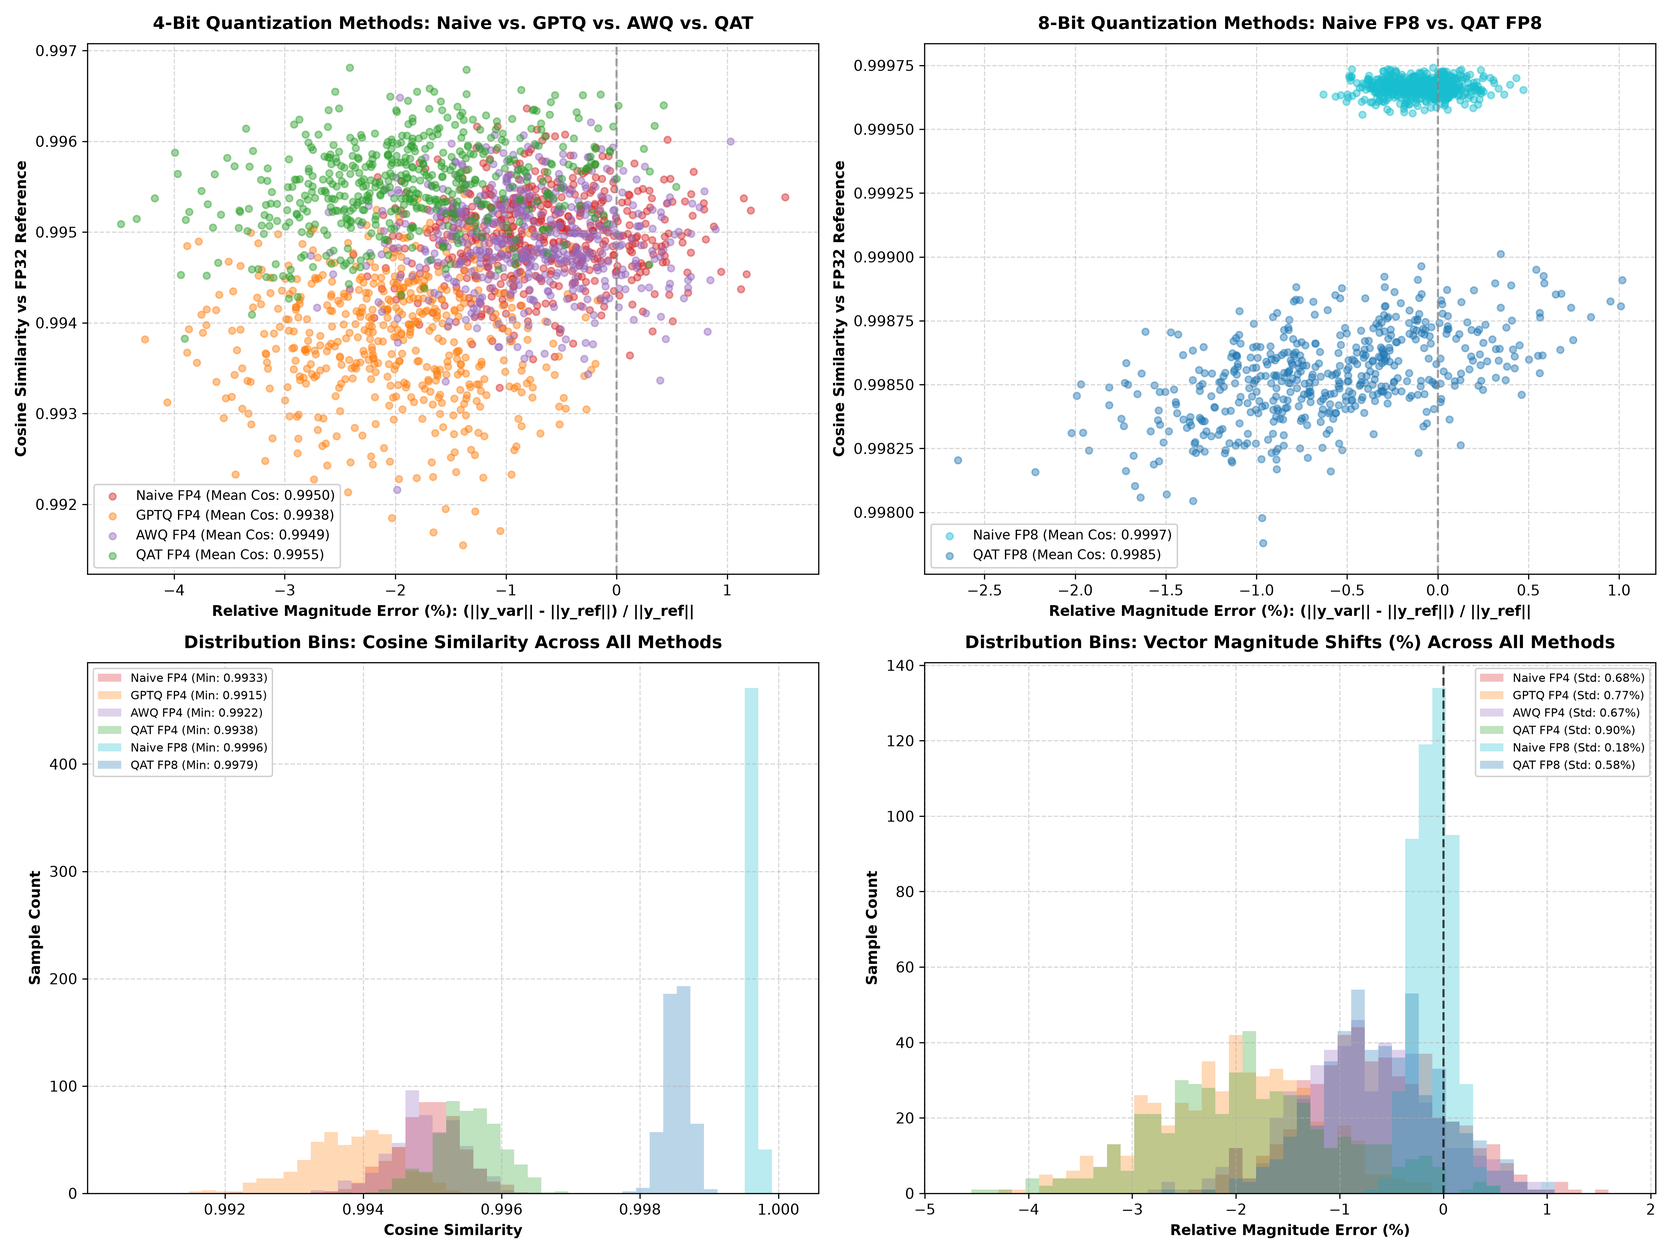
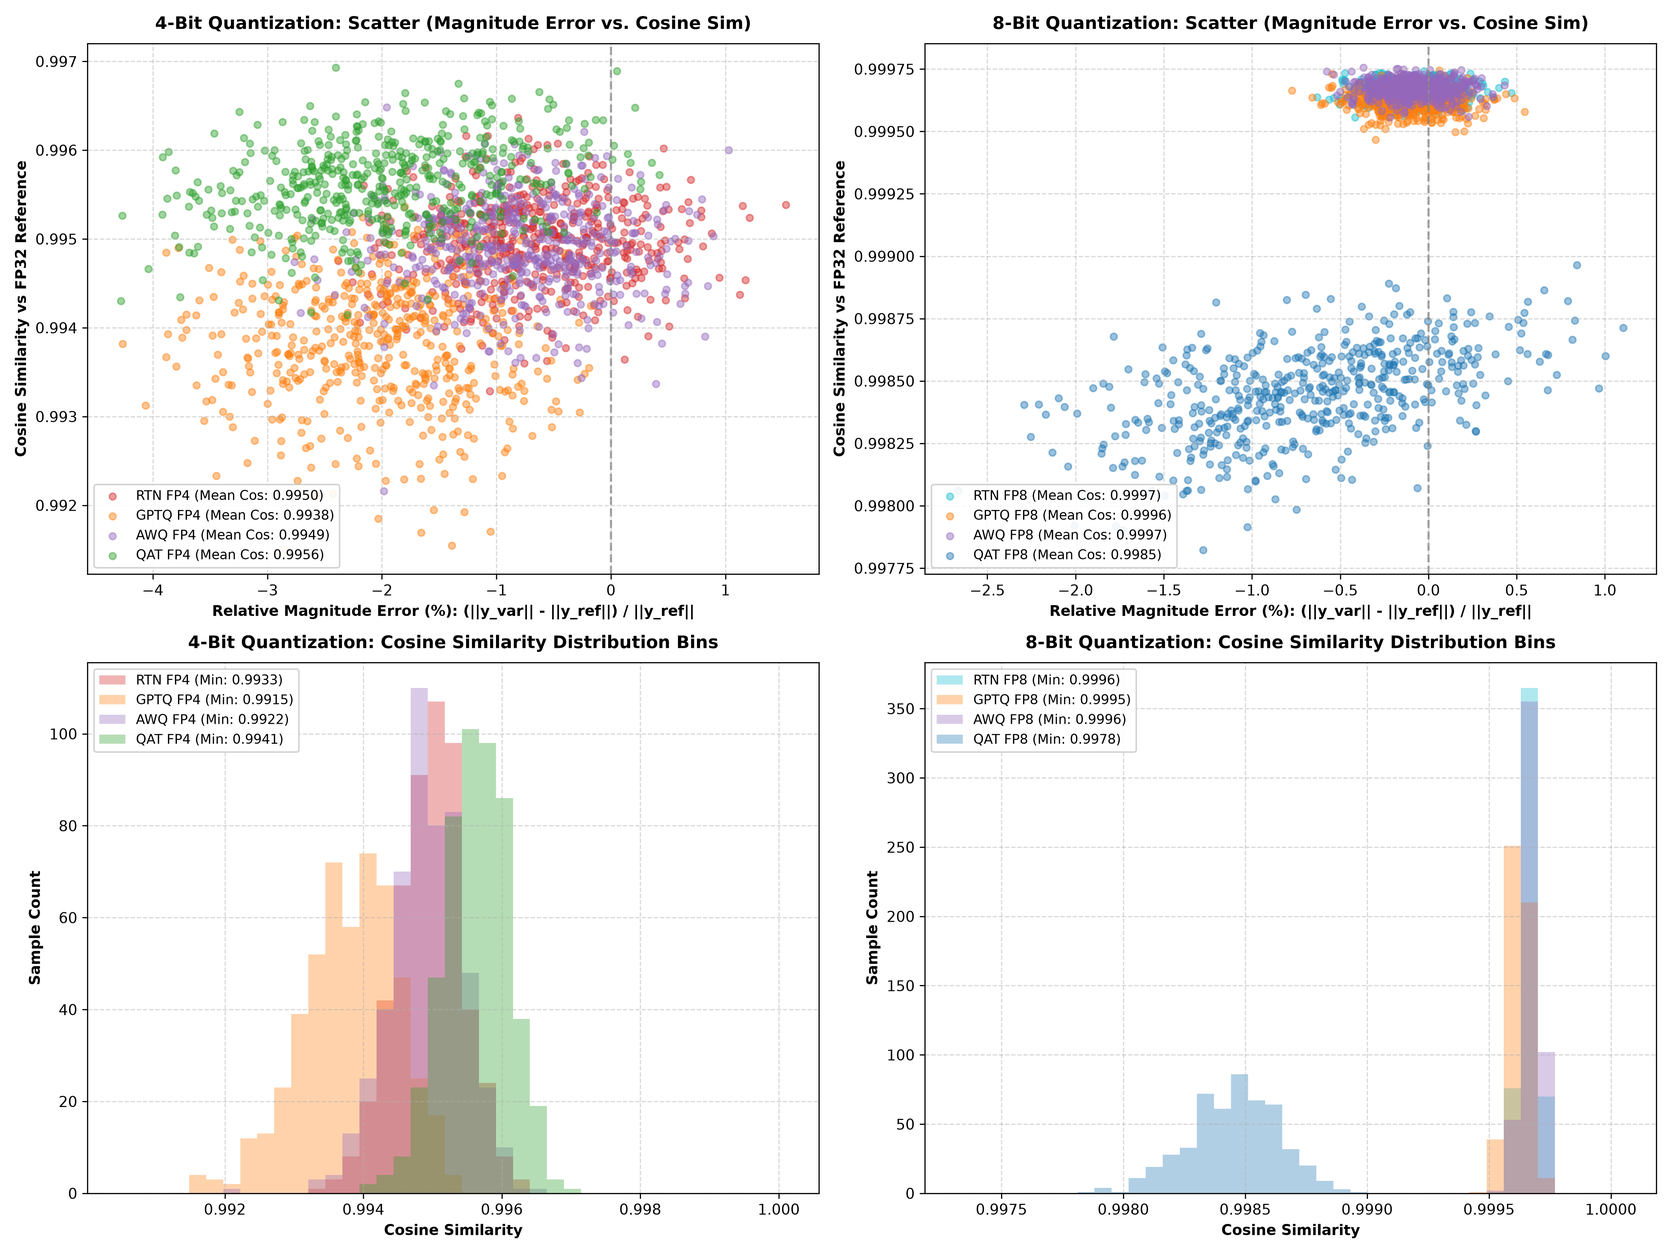
Refactor quantization methods: rename naive quantization to RTN, update README for clarity, and enhance plotting for 4-bit and 8-bit methods.

diff --git a/quantization/run.py b/quantization/run.py
@@ -98,9 +98,10 @@ def evaluate_predictions(y_ref: torch.Tensor, y_var: torch.Tensor, y_true: torch
     }
 
 # -----------------------------------------------------------------------------
-# 3. Quantization Algorithms (Naive RTN, GPTQ, AWQ, QAT)
+# 3. Quantization Algorithms (RTN, GPTQ, AWQ, QAT)
 # -----------------------------------------------------------------------------
-def naive_quantize_weight(weight: torch.Tensor, format_type: str = "fp8", block_size: int = 32) -> torch.Tensor:
+def rtn_quantize_weight(weight: torch.Tensor, format_type: str = "fp8", block_size: int = 32) -> torch.Tensor:
+    """Round-To-Nearest (RTN) Weight Quantization."""
     w = weight.detach().clone().float()
     orig_shape = w.shape
     fp4_grid = torch.tensor([0.0, 0.5, 1.0, 1.5, 2.0, 3.0, 4.0, 6.0], device=weight.device)
@@ -142,14 +143,19 @@ def gptq_quantize_layer(weight: torch.Tensor, X_activations: torch.Tensor, forma
             idx_local = i - block_start
             w_col = w_gptq[:, i]
 
-            col_max = torch.max(torch.abs(w_col))
-            scale = col_max / 6.0 if col_max > 0 else 1.0
-            w_scaled = w_col / scale
-            w_sign = torch.sign(w_scaled)
-            w_abs = torch.abs(w_scaled)
-            diffs = torch.abs(w_abs.unsqueeze(-1) - fp4_grid)
-            indices = torch.argmin(diffs, dim=-1)
-            w_q = fp4_grid[indices] * w_sign * scale
+            if format_type == "fp8":
+                col_max = torch.max(torch.abs(w_col))
+                scale = col_max / 448.0 if col_max > 0 else 1.0
+                w_q = (w_col / scale).to(torch.float8_e4m3fn).to(torch.float32) * scale
+            else:
+                col_max = torch.max(torch.abs(w_col))
+                scale = col_max / 6.0 if col_max > 0 else 1.0
+                w_scaled = w_col / scale
+                w_sign = torch.sign(w_scaled)
+                w_abs = torch.abs(w_scaled)
+                diffs = torch.abs(w_abs.unsqueeze(-1) - fp4_grid)
+                indices = torch.argmin(diffs, dim=-1)
+                w_q = fp4_grid[indices] * w_sign * scale
 
             delta = w_col - w_q
             w_gptq[:, i] = w_q
@@ -171,20 +177,28 @@ def awq_quantize_layer(weight: torch.Tensor, X_activations: torch.Tensor, format
     best_error = float("inf")
     fp4_grid = torch.tensor([0.0, 0.5, 1.0, 1.5, 2.0, 3.0, 4.0, 6.0], device=weight.device)
 
+    def quant_fn(w_mat):
+        if format_type == "fp8":
+            r_max = torch.max(torch.abs(w_mat), dim=1, keepdim=True).values
+            scale = torch.clamp(r_max / 448.0, min=1e-12)
+            return (w_mat / scale).to(torch.float8_e4m3fn).to(torch.float32) * scale
+        else:
+            w_flat = w_mat.reshape(-1, block_size)
+            b_max = torch.max(torch.abs(w_flat), dim=1, keepdim=True).values
+            scale = torch.clamp(b_max / 6.0, min=1e-12)
+            w_s = w_flat / scale
+            w_sign = torch.sign(w_s)
+            w_abs = torch.abs(w_s)
+            diffs = torch.abs(w_abs.unsqueeze(-1) - fp4_grid)
+            indices = torch.argmin(diffs, dim=-1)
+            return (fp4_grid[indices] * w_sign * scale).reshape(out_features, in_features)
+
     for alpha in torch.linspace(0.0, 1.0, 11):
         S = torch.pow(act_means, alpha)
         S = torch.clamp(S / torch.mean(S), min=1e-4)
 
         W_scaled = w * S.unsqueeze(0)
-        w_flat = W_scaled.reshape(-1, block_size)
-        b_max = torch.max(torch.abs(w_flat), dim=1, keepdim=True).values
-        scale = torch.clamp(b_max / 6.0, min=1e-12)
-        w_s = w_flat / scale
-        w_sign = torch.sign(w_s)
-        w_abs = torch.abs(w_s)
-        diffs = torch.abs(w_abs.unsqueeze(-1) - fp4_grid)
-        indices = torch.argmin(diffs, dim=-1)
-        w_q_scaled = (fp4_grid[indices] * w_sign * scale).reshape(out_features, in_features)
+        w_q_scaled = quant_fn(W_scaled)
 
         W_awq = w_q_scaled / S.unsqueeze(0)
         err = F.mse_loss(X @ W_awq.T, X @ w.T).item()
@@ -197,15 +211,7 @@ def awq_quantize_layer(weight: torch.Tensor, X_activations: torch.Tensor, format
     S = torch.clamp(S / torch.mean(S), min=1e-4)
 
     W_scaled = w * S.unsqueeze(0)
-    w_flat = W_scaled.reshape(-1, block_size)
-    b_max = torch.max(torch.abs(w_flat), dim=1, keepdim=True).values
-    scale = torch.clamp(b_max / 6.0, min=1e-12)
-    w_s = w_flat / scale
-    w_sign = torch.sign(w_s)
-    w_abs = torch.abs(w_s)
-    diffs = torch.abs(w_abs.unsqueeze(-1) - fp4_grid)
-    indices = torch.argmin(diffs, dim=-1)
-    w_q_scaled = (fp4_grid[indices] * w_sign * scale).reshape(out_features, in_features)
+    w_q_scaled = quant_fn(W_scaled)
 
     return w_q_scaled / S.unsqueeze(0)
 
@@ -251,11 +257,13 @@ def generate_quantization_plot(models_dict, x_test, output_path=None):
     mag_ref = torch.norm(y_ref, p=2, dim=1).cpu().numpy()
 
     variants = [
-        ("Naive FP4", models_dict["Naive FP4"], "#d62728"),
+        ("RTN FP4", models_dict["RTN FP4"], "#d62728"),
         ("GPTQ FP4", models_dict["GPTQ FP4"], "#ff7f0e"),
         ("AWQ FP4", models_dict["AWQ FP4"], "#9467bd"),
         ("QAT FP4", models_dict["QAT FP4"], "#2ca02c"),
-        ("Naive FP8", models_dict["Naive FP8"], "#17becf"),
+        ("RTN FP8", models_dict["RTN FP8"], "#17becf"),
+        ("GPTQ FP8", models_dict["GPTQ FP8"], "#ff7f0e"),
+        ("AWQ FP8", models_dict["AWQ FP8"], "#9467bd"),
         ("QAT FP8", models_dict["QAT FP8"], "#1f77b4"),
     ]
 
@@ -281,57 +289,64 @@ def generate_quantization_plot(models_dict, x_test, output_path=None):
 
     fig, axes = plt.subplots(2, 2, figsize=(16, 12), dpi=300)
 
-    # Panel 1: 4-Bit Scatter
+    # -------------------------------------------------------------
+    # LEFT COLUMN: 4-BIT METHODS (Top: Scatter, Bottom: Histogram)
+    # -------------------------------------------------------------
+    # Panel 1 (Top Left): 4-Bit Scatter
     ax1 = axes[0, 0]
-    for key in ["Naive FP4", "GPTQ FP4", "AWQ FP4", "QAT FP4"]:
+    for key in ["RTN FP4", "GPTQ FP4", "AWQ FP4", "QAT FP4"]:
         d = data[key]
         ax1.scatter(d["rel_mag_delta"], d["cos_sims"], alpha=0.45, color=d["color"], label=f"{key} (Mean Cos: {np.mean(d['cos_sims']):.4f})", s=22)
 
     ax1.axvline(0, color='gray', linestyle='--', alpha=0.7)
     ax1.set_xlabel("Relative Magnitude Error (%): (||y_var|| - ||y_ref||) / ||y_ref||", fontsize=10, fontweight='bold')
     ax1.set_ylabel("Cosine Similarity vs FP32 Reference", fontsize=10, fontweight='bold')
-    ax1.set_title("4-Bit Quantization Methods: Naive vs. GPTQ vs. AWQ vs. QAT", fontsize=12, fontweight='bold', pad=10)
+    ax1.set_title("4-Bit Quantization: Scatter (Magnitude Error vs. Cosine Sim)", fontsize=12, fontweight='bold', pad=10)
     ax1.legend(loc='lower left', frameon=True, framealpha=0.9, fontsize=9)
     ax1.grid(True, linestyle='--', alpha=0.5)
 
-    # Panel 2: 8-Bit Scatter
-    ax2 = axes[0, 1]
-    for key in ["Naive FP8", "QAT FP8"]:
+    # Panel 2 (Bottom Left): 4-Bit Cosine Similarity Histogram
+    ax2 = axes[1, 0]
+    cos_4bit = np.concatenate([data[k]["cos_sims"] for k in ["RTN FP4", "GPTQ FP4", "AWQ FP4", "QAT FP4"]])
+    bins_4bit = np.linspace(np.min(cos_4bit) - 0.001, 1.0001, 40)
+    for key in ["RTN FP4", "GPTQ FP4", "AWQ FP4", "QAT FP4"]:
         d = data[key]
-        ax2.scatter(d["rel_mag_delta"], d["cos_sims"], alpha=0.45, color=d["color"], label=f"{key} (Mean Cos: {np.mean(d['cos_sims']):.4f})", s=22)
+        ax2.hist(d["cos_sims"], bins=bins_4bit, alpha=0.35, color=d["color"], label=f"{key} (Min: {np.min(d['cos_sims']):.4f})", histtype='stepfilled')
 
-    ax2.axvline(0, color='gray', linestyle='--', alpha=0.7)
-    ax2.set_xlabel("Relative Magnitude Error (%): (||y_var|| - ||y_ref||) / ||y_ref||", fontsize=10, fontweight='bold')
-    ax2.set_ylabel("Cosine Similarity vs FP32 Reference", fontsize=10, fontweight='bold')
-    ax2.set_title("8-Bit Quantization Methods: Naive FP8 vs. QAT FP8", fontsize=12, fontweight='bold', pad=10)
-    ax2.legend(loc='lower left', frameon=True, framealpha=0.9, fontsize=9)
+    ax2.set_xlabel("Cosine Similarity", fontsize=10, fontweight='bold')
+    ax2.set_ylabel("Sample Count", fontsize=10, fontweight='bold')
+    ax2.set_title("4-Bit Quantization: Cosine Similarity Distribution Bins", fontsize=12, fontweight='bold', pad=10)
+    ax2.legend(loc='upper left', frameon=True, framealpha=0.9, fontsize=9)
     ax2.grid(True, linestyle='--', alpha=0.5)
 
-    # Panel 3: Cosine Similarity Bins
-    ax3 = axes[1, 0]
-    all_cos = np.concatenate([d["cos_sims"] for d in data.values()])
-    cos_bins = np.linspace(np.min(all_cos) - 0.001, 1.0001, 50)
-    for label, d in data.items():
-        ax3.hist(d["cos_sims"], bins=cos_bins, alpha=0.3, color=d["color"], label=f"{label} (Min: {np.min(d['cos_sims']):.4f})", histtype='stepfilled')
+    # -------------------------------------------------------------
+    # RIGHT COLUMN: 8-BIT METHODS (Top: Scatter, Bottom: Histogram)
+    # -------------------------------------------------------------
+    # Panel 3 (Top Right): 8-Bit Scatter
+    ax3 = axes[0, 1]
+    for key in ["RTN FP8", "GPTQ FP8", "AWQ FP8", "QAT FP8"]:
+        d = data[key]
+        ax3.scatter(d["rel_mag_delta"], d["cos_sims"], alpha=0.45, color=d["color"], label=f"{key} (Mean Cos: {np.mean(d['cos_sims']):.4f})", s=22)
 
-    ax3.set_xlabel("Cosine Similarity", fontsize=10, fontweight='bold')
-    ax3.set_ylabel("Sample Count", fontsize=10, fontweight='bold')
-    ax3.set_title("Distribution Bins: Cosine Similarity Across All Methods", fontsize=12, fontweight='bold', pad=10)
-    ax3.legend(loc='upper left', frameon=True, framealpha=0.9, fontsize=8)
+    ax3.axvline(0, color='gray', linestyle='--', alpha=0.7)
+    ax3.set_xlabel("Relative Magnitude Error (%): (||y_var|| - ||y_ref||) / ||y_ref||", fontsize=10, fontweight='bold')
+    ax3.set_ylabel("Cosine Similarity vs FP32 Reference", fontsize=10, fontweight='bold')
+    ax3.set_title("8-Bit Quantization: Scatter (Magnitude Error vs. Cosine Sim)", fontsize=12, fontweight='bold', pad=10)
+    ax3.legend(loc='lower left', frameon=True, framealpha=0.9, fontsize=9)
     ax3.grid(True, linestyle='--', alpha=0.5)
 
-    # Panel 4: Magnitude Error Bins
+    # Panel 4 (Bottom Right): 8-Bit Cosine Similarity Histogram
     ax4 = axes[1, 1]
-    all_mag_deltas = np.concatenate([d["rel_mag_delta"] for d in data.values()])
-    mag_bins = np.linspace(np.min(all_mag_deltas) - 0.2, np.max(all_mag_deltas) + 0.2, 50)
-    for label, d in data.items():
-        ax4.hist(d["rel_mag_delta"], bins=mag_bins, alpha=0.3, color=d["color"], label=f"{label} (Std: {np.std(d['rel_mag_delta']):.2f}%)", histtype='stepfilled')
+    cos_8bit = np.concatenate([data[k]["cos_sims"] for k in ["RTN FP8", "GPTQ FP8", "AWQ FP8", "QAT FP8"]])
+    bins_8bit = np.linspace(np.min(cos_8bit) - 0.0005, 1.00005, 40)
+    for key in ["RTN FP8", "GPTQ FP8", "AWQ FP8", "QAT FP8"]:
+        d = data[key]
+        ax4.hist(d["cos_sims"], bins=bins_8bit, alpha=0.35, color=d["color"], label=f"{key} (Min: {np.min(d['cos_sims']):.4f})", histtype='stepfilled')
 
-    ax4.axvline(0, color='black', linestyle='--', alpha=0.7)
-    ax4.set_xlabel("Relative Magnitude Error (%)", fontsize=10, fontweight='bold')
+    ax4.set_xlabel("Cosine Similarity", fontsize=10, fontweight='bold')
     ax4.set_ylabel("Sample Count", fontsize=10, fontweight='bold')
-    ax4.set_title("Distribution Bins: Vector Magnitude Shifts (%) Across All Methods", fontsize=12, fontweight='bold', pad=10)
-    ax4.legend(loc='upper right', frameon=True, framealpha=0.9, fontsize=8)
+    ax4.set_title("8-Bit Quantization: Cosine Similarity Distribution Bins", fontsize=12, fontweight='bold', pad=10)
+    ax4.legend(loc='upper left', frameon=True, framealpha=0.9, fontsize=9)
     ax4.grid(True, linestyle='--', alpha=0.5)
 
     plt.tight_layout()
@@ -375,26 +390,35 @@ def main():
     m_bf16 = RotationModel(dim=256, hidden_dim=1024).to(device, dtype=torch.bfloat16)
     m_bf16.load_state_dict({k: v.bfloat16() for k, v in model_fp32.state_dict().items()})
 
-    # 3. Naive RTN FP8 & FP4
-    print("2. Applying Naive Round-To-Nearest (RTN) PTQ in memory...")
-    m_naive_fp8 = RotationModel(dim=256, hidden_dim=1024).to(device)
-    m_naive_fp8.load_state_dict(model_fp32.state_dict())
-    for mod in m_naive_fp8.modules():
+    # 3. RTN FP8 & FP4
+    print("2. Applying Round-To-Nearest (RTN) PTQ in memory...")
+    m_rtn_fp8 = RotationModel(dim=256, hidden_dim=1024).to(device)
+    m_rtn_fp8.load_state_dict(model_fp32.state_dict())
+    for mod in m_rtn_fp8.modules():
         if isinstance(mod, nn.Linear):
-            mod.weight.data = naive_quantize_weight(mod.weight.data, format_type="fp8")
+            mod.weight.data = rtn_quantize_weight(mod.weight.data, format_type="fp8")
 
-    m_naive_fp4 = RotationModel(dim=256, hidden_dim=1024).to(device)
-    m_naive_fp4.load_state_dict(model_fp32.state_dict())
-    for mod in m_naive_fp4.modules():
+    m_rtn_fp4 = RotationModel(dim=256, hidden_dim=1024).to(device)
+    m_rtn_fp4.load_state_dict(model_fp32.state_dict())
+    for mod in m_rtn_fp4.modules():
         if isinstance(mod, nn.Linear):
-            mod.weight.data = naive_quantize_weight(mod.weight.data, format_type="fp4")
+            mod.weight.data = rtn_quantize_weight(mod.weight.data, format_type="fp4")
 
-    # 4. GPTQ FP4
-    print("3. Applying GPTQ (Hessian Error Nudge) in memory...")
+    # 4. GPTQ FP8 & FP4
+    print("3. Applying GPTQ (Hessian Error Nudge) FP8 & FP4 in memory...")
+    m_gptq_fp8 = RotationModel(dim=256, hidden_dim=1024).to(device)
+    m_gptq_fp8.load_state_dict(model_fp32.state_dict())
+    m_gptq_fp8.eval()
+    curr_calib = x_calib.clone().float()
+    for name, module in m_gptq_fp8.named_children():
+        if isinstance(module, nn.Linear):
+            module.weight.data = gptq_quantize_layer(module.weight.data, curr_calib, format_type="fp8")
+            with torch.no_grad():
+                curr_calib = module(curr_calib)
+
     m_gptq_fp4 = RotationModel(dim=256, hidden_dim=1024).to(device)
     m_gptq_fp4.load_state_dict(model_fp32.state_dict())
     m_gptq_fp4.eval()
-
     curr_calib = x_calib.clone().float()
     for name, module in m_gptq_fp4.named_children():
         if isinstance(module, nn.Linear):
@@ -402,12 +426,21 @@ def main():
             with torch.no_grad():
                 curr_calib = module(curr_calib)
 
-    # 5. AWQ FP4
-    print("4. Applying AWQ (Activation-aware Weight Quantization) in memory...")
+    # 5. AWQ FP8 & FP4
+    print("4. Applying AWQ (Activation-aware Weight Quantization) FP8 & FP4 in memory...")
+    m_awq_fp8 = RotationModel(dim=256, hidden_dim=1024).to(device)
+    m_awq_fp8.load_state_dict(model_fp32.state_dict())
+    m_awq_fp8.eval()
+    curr_calib = x_calib.clone().float()
+    for name, module in m_awq_fp8.named_children():
+        if isinstance(module, nn.Linear):
+            module.weight.data = awq_quantize_layer(module.weight.data, curr_calib, format_type="fp8")
+            with torch.no_grad():
+                curr_calib = module(curr_calib)
+
     m_awq_fp4 = RotationModel(dim=256, hidden_dim=1024).to(device)
     m_awq_fp4.load_state_dict(model_fp32.state_dict())
     m_awq_fp4.eval()
-
     curr_calib = x_calib.clone().float()
     for name, module in m_awq_fp4.named_children():
         if isinstance(module, nn.Linear):
@@ -446,9 +479,11 @@ def main():
     models_dict = {
         "FP32": model_fp32,
         "BF16": m_bf16,
-        "Naive FP8": m_naive_fp8,
+        "RTN FP8": m_rtn_fp8,
+        "GPTQ FP8": m_gptq_fp8,
+        "AWQ FP8": m_awq_fp8,
         "QAT FP8": m_qat_fp8_export,
-        "Naive FP4": m_naive_fp4,
+        "RTN FP4": m_rtn_fp4,
         "GPTQ FP4": m_gptq_fp4,
         "AWQ FP4": m_awq_fp4,
         "QAT FP4": m_qat_fp4_export,
@@ -457,9 +492,11 @@ def main():
     with torch.no_grad():
         out_fp32 = model_fp32(x_test).float()
         out_bf16 = m_bf16(x_test.bfloat16()).float()
-        out_naive_fp8 = m_naive_fp8(x_test).float()
+        out_rtn_fp8 = m_rtn_fp8(x_test).float()
+        out_gptq_fp8 = m_gptq_fp8(x_test).float()
+        out_awq_fp8 = m_awq_fp8(x_test).float()
         out_qat_fp8 = m_qat_fp8_export(x_test).float()
-        out_naive_fp4 = m_naive_fp4(x_test).float()
+        out_rtn_fp4 = m_rtn_fp4(x_test).float()
         out_gptq_fp4 = m_gptq_fp4(x_test).float()
         out_awq_fp4 = m_awq_fp4(x_test).float()
         out_qat_fp4 = m_qat_fp4_export(x_test).float()
@@ -467,9 +504,11 @@ def main():
     variants = [
         ("FP32 (Ref Ground Truth)", out_fp32),
         ("BF16 (IEEE Truncation)", out_bf16),
-        ("Naive FP8 (RTN)", out_naive_fp8),
+        ("RTN FP8 (Round-To-Nearest)", out_rtn_fp8),
+        ("GPTQ FP8 (Hessian Nudge)", out_gptq_fp8),
+        ("AWQ FP8 (Salient Channel)", out_awq_fp8),
         ("QAT FP8 (STE Fine-Tuned)", out_qat_fp8),
-        ("Naive FP4 (RTN)", out_naive_fp4),
+        ("RTN FP4 (Round-To-Nearest)", out_rtn_fp4),
         ("GPTQ FP4 (Hessian Nudge)", out_gptq_fp4),
         ("AWQ FP4 (Salient Channel)", out_awq_fp4),
         ("QAT FP4 (STE Fine-Tuned)", out_qat_fp4),
@@ -478,9 +517,11 @@ def main():
     sizes = {
         "FP32 (Ref Ground Truth)": "10.0 MB",
         "BF16 (IEEE Truncation)": "5.0 MB",
-        "Naive FP8 (RTN)": "2.5 MB",
+        "RTN FP8 (Round-To-Nearest)": "2.5 MB",
+        "GPTQ FP8 (Hessian Nudge)": "2.5 MB",
+        "AWQ FP8 (Salient Channel)": "2.5 MB",
         "QAT FP8 (STE Fine-Tuned)": "2.5 MB",
-        "Naive FP4 (RTN)": "1.4 MB",
+        "RTN FP4 (Round-To-Nearest)": "1.4 MB",
         "GPTQ FP4 (Hessian Nudge)": "1.4 MB",
         "AWQ FP4 (Salient Channel)": "1.4 MB",
         "QAT FP4 (STE Fine-Tuned)": "1.4 MB",

diff --git a/quantization/README.md b/quantization/README.md
@@ -9,28 +9,30 @@
 ## 2. Experiment Setup
 
 * **Paradigms Benchmark (In-Memory):**
-  * **Naive RTN (Round-To-Nearest):** Snaps FP32 weights to nearest FP8/FP4 grid point.
-  * **GPTQ (Hessian-Guided):** Nudges unquantized weight columns using inverse Hessian $H^{-1}$.
-  * **AWQ (Activation-Aware):** Scales salient activation weight channels before quantization.
-  * **QAT (Quantization-Aware Training):** Fine-tunes FP32 weights with Straight-Through Estimators (STE).
+  * **RTN (Round-To-Nearest) [PTQ]:** Snaps FP32 weights to nearest FP8/FP4 grid point (0 training epochs).
+  * **GPTQ (Hessian-Guided) [PTQ]:** Nudges unquantized weight columns using inverse Hessian $H^{-1}$ (0 training epochs).
+  * **AWQ (Activation-Aware) [PTQ]:** Scales salient activation weight channels before quantization (0 training epochs).
+  * **QAT (Quantization-Aware Training) [QAT]:** Fine-tunes FP32 weights with Straight-Through Estimators STE (50 training epochs).
 * **Execution:** 100% in-memory (no `.pt` checkpoint files saved to disk).
 
 ---
 
 ## 3. Results & Experimental Fairness
 
-| Quantization Method / Format | Memory Footprint | Worst Cosine Similarity | Mean Cosine Similarity | Winner |
-| :--- | :---: | :---: | :---: | :---: |
-| **FP32 (Ref Ground Truth)** | `10.0 MB` | `1.000000` | `1.000000` | Reference |
-| **BF16 (16-Bit)** | `5.0 MB` | `0.999992` | `0.999994` | — |
-| **Naive FP8 (RTN)** | `2.5 MB` | `0.999557` | **`0.999664`** | 🥇 8-Bit Winner |
-| **QAT FP8 (STE)** | `2.5 MB` | `0.997852` | `0.998536` | — |
-| **Naive FP4 (RTN)** | `1.4 MB` | `0.993284` | `0.994953` | — |
-| **GPTQ FP4 (Hessian)** | `1.4 MB` | `0.991496` | `0.993804` | — |
-| **AWQ FP4 (Channel)** | `1.4 MB` | `0.992161` | `0.994903` | — |
-| **QAT FP4 (STE)** | `1.4 MB` | **`0.993828`** | **`0.995524`** | 🥇 4-Bit Winner |
+| Quantization Method / Format | Paradigm | Memory Footprint | Worst Cosine Similarity | Mean Cosine Similarity | Winner |
+| :--- | :---: | :---: | :---: | :---: | :---: |
+| **FP32 (Ref Ground Truth)** | Reference | `10.0 MB` | `1.000000` | `1.000000` | Reference |
+| **BF16 (16-Bit)** | 16-Bit | `5.0 MB` | `0.999992` | `0.999994` | — |
+| **RTN FP8 (Round-To-Nearest)** | **PTQ** | `2.5 MB` | `0.999557` | `0.999664` | — |
+| **GPTQ FP8 (Hessian)** | **PTQ** | `2.5 MB` | `0.999468` | `0.999622` | — |
+| **AWQ FP8 (Channel)** | **PTQ** | `2.5 MB` | `0.999557` | **`0.999671`** | 🥇 8-Bit Winner |
+| **QAT FP8 (STE)** | **QAT** | `2.5 MB` | `0.997823` | `0.998451` | — |
+| **RTN FP4 (Round-To-Nearest)** | **PTQ** | `1.4 MB` | `0.993284` | `0.994953` | — |
+| **GPTQ FP4 (Hessian)** | **PTQ** | `1.4 MB` | `0.991496` | `0.993804` | — |
+| **AWQ FP4 (Channel)** | **PTQ** | `1.4 MB` | `0.992161` | `0.994903` | — |
+| **QAT FP4 (STE)** | **QAT** | `1.4 MB` | **`0.994146`** | **`0.995625`** | 🥇 4-Bit Winner |
 
-* **Experimental Bias Note:** On this small 2-layer MLP, activations lack extreme outliers ($>100\sigma$), so Naive RTN artificially performs almost as well as AWQ/QAT. On real 70B+ LLMs, Naive RTN fails without AWQ/GPTQ.
+* **Experimental Bias Note:** On this small 2-layer MLP, activations lack extreme outliers ($>100\sigma$), so RTN artificially performs almost as well as AWQ/QAT. On real 70B+ LLMs, RTN fails without AWQ/GPTQ.
 
 ---
 
@@ -38,8 +40,8 @@
 
 ![Visual Summary Plot](plot.png)
 
-- **Panel 1 & 2:** Scatter plots of Relative Magnitude Error vs. Cosine Similarity (4-Bit & 8-Bit).
-- **Panel 3 & 4:** Histograms of Cosine Similarity distributions and Vector Magnitude shifts.
+- **Left Column (All 4-Bit Methods):** Top: Scatter Plot (RTN, GPTQ, AWQ, QAT) | Bottom: Cosine Similarity Histogram Bins.
+- **Right Column (All 8-Bit Methods):** Top: Scatter Plot (RTN, GPTQ, AWQ, QAT) | Bottom: Cosine Similarity Histogram Bins.
 
 ---
 
